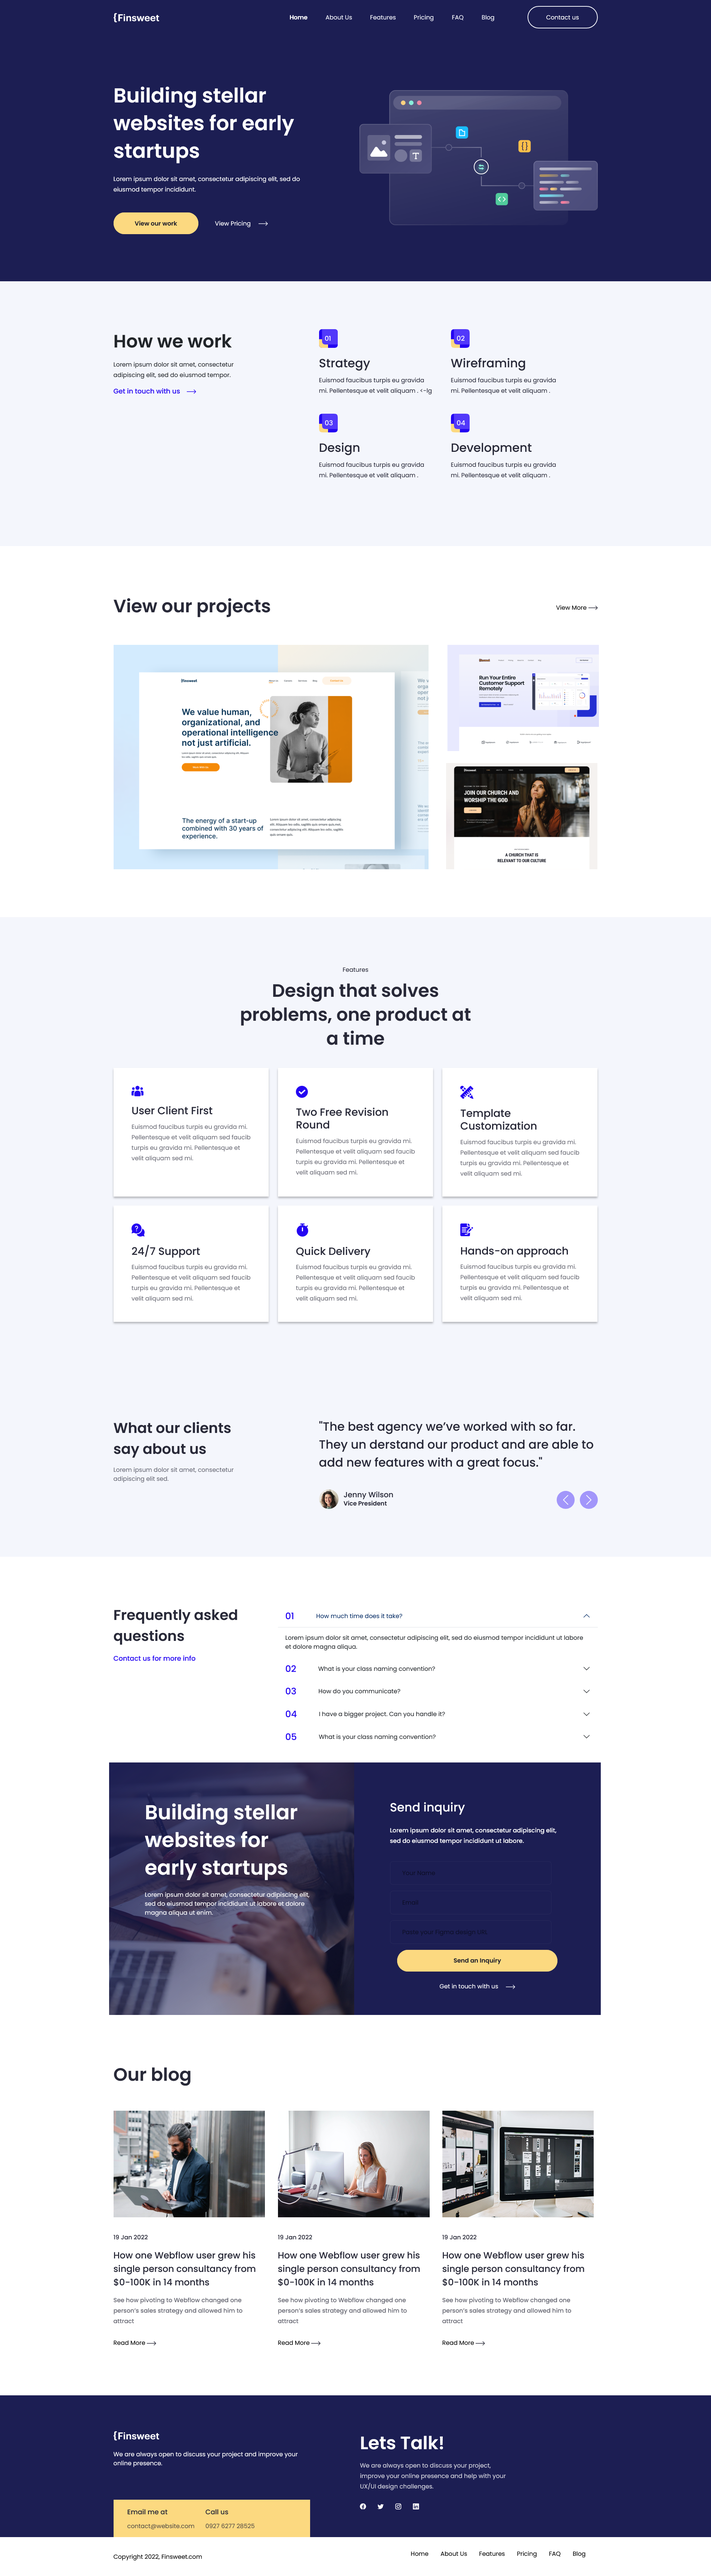
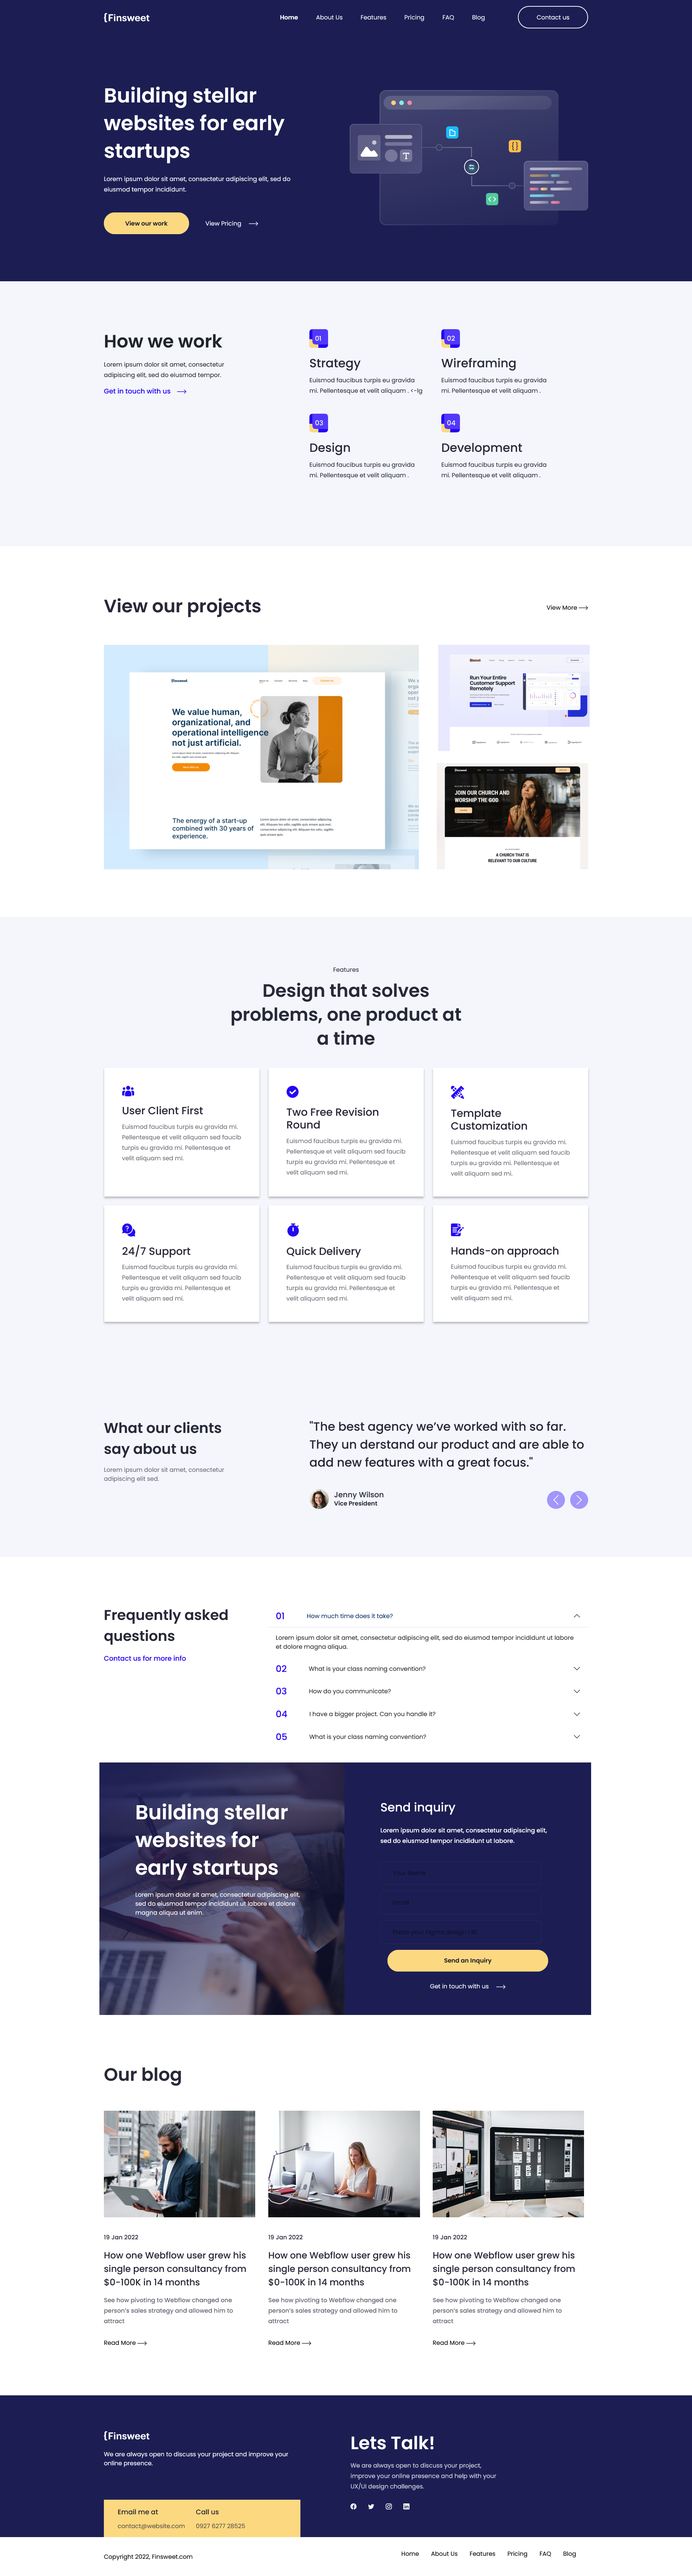
projects add

diff --git a/src/components/projects/Projects.jsx b/src/components/projects/Projects.jsx
@@ -6,40 +6,37 @@ import { FiArrowUpRight } from "react-icons/fi";
 import RoundedElemText from '../../layouts/RoundedElemText';
 import AOS from 'aos';
 import 'aos/dist/aos.css';
-import project1 from '../../assets/project1.png'
-import project2 from '../../assets/project2.png'
-import project3 from '../../assets/project3.png'
 import { Link } from 'react-router-dom';
 
-const Projects = () => {
+const Projects = ({projects}) => {
   
   useEffect(() => {
     AOS.init({ duration: 1000 });
   }, []);
 
-  const projects= [
-    {
-      img: project1,
-      category: "Web Design",
-      title: "A Simple Website Design with Figma",
-      description: "Sed ut perspiciatis unde omnis natus totam rem aperiam eaque inventore veritatis",
-      link: "#"
-    },
-    {
-      img: project2,
-      category: "Web Design",
-      title: "Another Design in Figma",
-      description: "Voluptatem accusantium doloremque laudantium, totam rem aperiam",
-      link: "#"
-    },
-    {
-      img: project3,
-      category: "UI/UX",
-      title: "Mobile App Design",
-      description: "Nemo enim ipsam voluptatem quia voluptas sit aspernatur aut odit aut fugit",
-      link: "#"
-    },
-  ];
+  // const projects= [
+  //   {
+  //     img: project1,
+  //     category: "Web Design",
+  //     title: "A Simple Website Design with Figma",
+  //     description: "Sed ut perspiciatis unde omnis natus totam rem aperiam eaque inventore veritatis",
+  //     link: "#"
+  //   },
+  //   {
+  //     img: project2,
+  //     category: "Web Design",
+  //     title: "Another Design in Figma",
+  //     description: "Voluptatem accusantium doloremque laudantium, totam rem aperiam",
+  //     link: "#"
+  //   },
+  //   {
+  //     img: project3,
+  //     category: "UI/UX",
+  //     title: "Mobile App Design",
+  //     description: "Nemo enim ipsam voluptatem quia voluptas sit aspernatur aut odit aut fugit",
+  //     link: "#"
+  //   },
+  // ];
 
   return (
     <div id='projects' className="projects  relative overflow-x-hidden bg-dark-bg text-white font-secondary py-[50px] md:py-[99px]">
@@ -55,7 +52,7 @@ const Projects = () => {
         </div>
         <div className="projects space-y-10">
           {
-            projects.map((project, index) => (
+            projects.slice(0,3).map((project, index) => (
               <Flex key={index} className={index % 2 !== 0 ? "md:flex-row-reverse flex-col" : "md:flex-row flex-col"}>
                 <div data-aos="flip-left" className="left  mb-5 md:mb-0 w-full md:w-1/2">
                 <div className="image max-w-[645px] h-[500px] bg-amber-50 rounded-[10px] overflow-y-auto" >
@@ -67,7 +64,7 @@ const Projects = () => {
                 <p className='font-medium  text-primary text-body-sm md:text-body'>{project.category}</p>
                 <h3 className='text-subheading-sm md:text-subheading font-primary max-w-[529px]  font-bold mt-3 mb-[17px]'>{project.title}</h3>
                 <p className='font-medium text-body-sm md:text-body mb-[55px] mx-auto md:mx-0 max-w-[392px]'>{project.description}</p>
-                <a  href="#"><RoundIconBox className='mx-auto md:mx-0'><FiArrowUpRight/></RoundIconBox></a>
+                <a target='blank' href={project.link}><RoundIconBox className='mx-auto cursor-pointer md:mx-0'><FiArrowUpRight/></RoundIconBox></a>
 
                 </div>
               </Flex>

diff --git a/src/pages/ProjectsPage.jsx b/src/pages/ProjectsPage.jsx
@@ -1,64 +1,18 @@
 import React, { useEffect } from 'react'
 import AOS from 'aos';
 import 'aos/dist/aos.css';
-import project1 from '../assets/project1.png'
-import project2 from '../assets/project2.png'
-import project3 from '../assets/project3.png'
 import Container from '../layouts/Container';
 import Flex from '../layouts/Flex';
 import RoundIconBox from '../layouts/RoundIconBox';
 import { FiArrowUpRight } from 'react-icons/fi';
 
-const ProjectsPage = () => {
+const ProjectsPage = ({projects}) => {
   
   useEffect(() => {
     AOS.init({ duration: 1000 });
   }, []);
 
-  const projects= [
-    {
-      img: project1,
-      category: "Web Design",
-      title: "A Simple Website Design with Figma",
-      description: "Sed ut perspiciatis unde omnis natus totam rem aperiam eaque inventore veritatis",
-      link: "#"
-    },
-    {
-      img: project2,
-      category: "Web Design",
-      title: "Another Design in Figma",
-      description: "Voluptatem accusantium doloremque laudantium, totam rem aperiam",
-      link: "#"
-    },
-    {
-      img: project3,
-      category: "UI/UX",
-      title: "Mobile App Design",
-      description: "Nemo enim ipsam voluptatem quia voluptas sit aspernatur aut odit aut fugit",
-      link: "#"
-    },
-    {
-      img: project1,
-      category: "Web Design",
-      title: "A Simple Website Design with Figma",
-      description: "Sed ut perspiciatis unde omnis natus totam rem aperiam eaque inventore veritatis",
-      link: "#"
-    },
-    {
-      img: project2,
-      category: "Web Design",
-      title: "Another Design in Figma",
-      description: "Voluptatem accusantium doloremque laudantium, totam rem aperiam",
-      link: "#"
-    },
-    {
-      img: project3,
-      category: "UI/UX",
-      title: "Mobile App Design",
-      description: "Nemo enim ipsam voluptatem quia voluptas sit aspernatur aut odit aut fugit",
-      link: "#"
-    },
-  ];
+
 
   return (
     <div id='projects' className="projects  relative overflow-x-hidden bg-dark-bg text-white font-secondary py-[150px] md:py-[250px]">
@@ -86,7 +40,7 @@ const ProjectsPage = () => {
                 <p className='font-medium  text-primary text-body-sm md:text-body'>{project.category}</p>
                 <h3 className='text-subheading-sm md:text-subheading font-primary max-w-[529px]  font-bold mt-3 mb-[17px]'>{project.title}</h3>
                 <p className='font-medium text-body-sm md:text-body mb-[55px] mx-auto md:mx-0 max-w-[392px]'>{project.description}</p>
-                <a  href="#"><RoundIconBox className='mx-auto md:mx-0'><FiArrowUpRight/></RoundIconBox></a>
+                <a target='blank' href={project.link}><RoundIconBox className='mx-auto cursor-pointer md:mx-0'><FiArrowUpRight/></RoundIconBox></a>
 
                 </div>
               </Flex>

diff --git a/src/main.jsx b/src/main.jsx
@@ -10,7 +10,11 @@ import BlogPage from './pages/BlogPage.jsx'
 import ProjectsPage from './pages/ProjectsPage.jsx'
 import Services from './components/services/Services.jsx';
 import ServicesPage from './pages/ServicesPage.jsx';
-
+import project1 from './assets/project1.png'
+import project2 from './assets/project2.png'
+import project3 from './assets/project3.png'
+import project4 from './assets/project4.png'
+import project5 from './assets/project5.png'
 import blog1 from "./assets/blog1.png";
 
 const blogs = [
@@ -64,15 +68,55 @@ const blogs = [
   },
 ];
 
+
+
+const projects= [
+  {
+    img: project1,
+    category: "Web Design",
+    title: "Petroil-- a landing page",
+    description: "petroil is a simple landing page with React and tailwind.",
+    link: "https://petroil-ten.vercel.app/"
+  },
+  {
+    img: project2,
+    category: "Web Design",
+    title: "Muslim Name Generator",
+    description: "Over 1000+ Muslim names",
+    link: "https://meheraj786.github.io/muslim-name-generator/"
+  },
+  {
+    img: project3,
+    category: "Web Design",
+    title: "Finsweet",
+    description: "static and multi page website",
+    link: "https://meheraj786.github.io/finsweet-webpage/"
+  },
+  {
+    img: project4,
+    category: "Web Design",
+    title: "A Simple Website Design with Figma",
+    description: "Sed ut perspiciatis unde omnis natus totam rem aperiam eaque inventore veritatis",
+    link: "https://landing-page-website-with-react.vercel.app/"
+  },
+  {
+    img: project5,
+    category: "Web Design",
+    title: "Authentication with Appwrite",
+    description: "Signup and Login with react and appwrite",
+    link: "https://authentication-with-react.vercel.app/login"
+  },
+];
+
 const router = createBrowserRouter([
   {
     path: "/",
     element: <Layout />, // common layout
     children: [
-      { path: "/", element: <App blogs={blogs} /> },
+      { path: "/", element: <App projects={projects} blogs={blogs} /> },
       { path: "/skill", element: <SkillPage /> },
       { path: "/blog", element: <BlogPage blogs={blogs} /> },
-      { path: "/projects", element: <ProjectsPage/>},
+      { path: "/projects", element: <ProjectsPage projects={projects}/>},
       { path: "/about", element: <About/>},
       { path: "/services", element: <ServicesPage/>},
     ],

diff --git a/src/App.jsx b/src/App.jsx
@@ -12,7 +12,7 @@ import Contact from './components/contact/Contact'
 import Footer from './components/footer/Footer'
 
 
-function App({blogs}) {
+function App({blogs, projects}) {
 
 
   return (
@@ -22,7 +22,7 @@ function App({blogs}) {
 <About/>
 <Services/>
 <Skill/>
-<Projects/>
+<Projects projects={projects}/>
 <Blog blogs={blogs}/>
 <Contact/>
 </>
